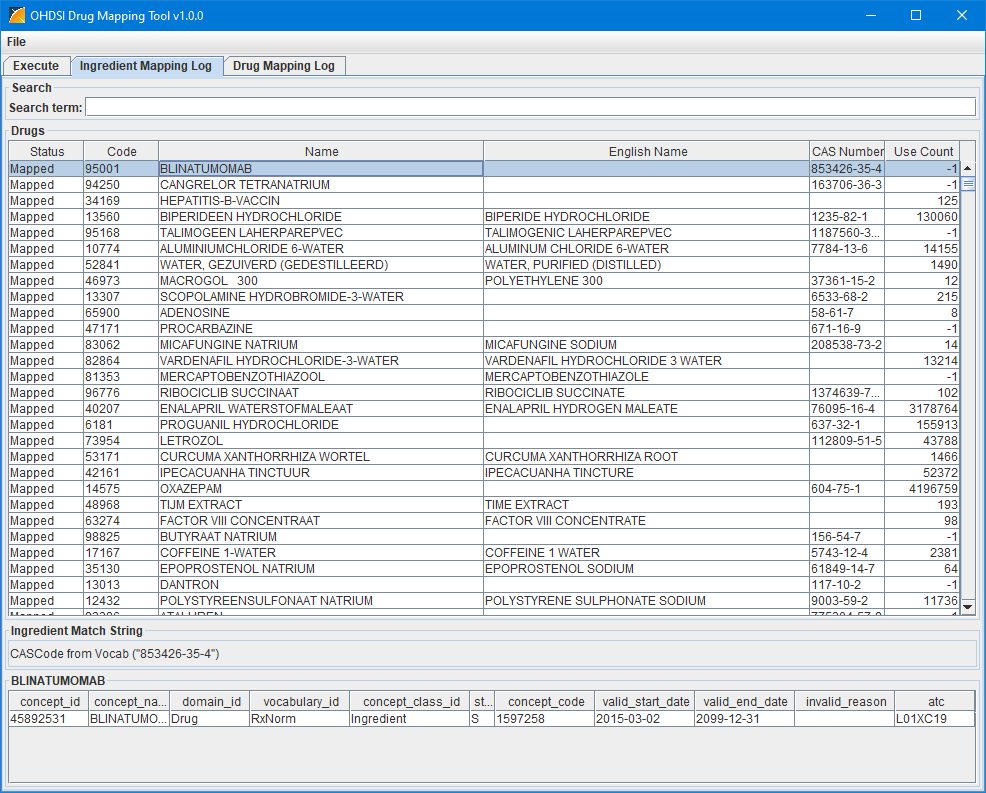
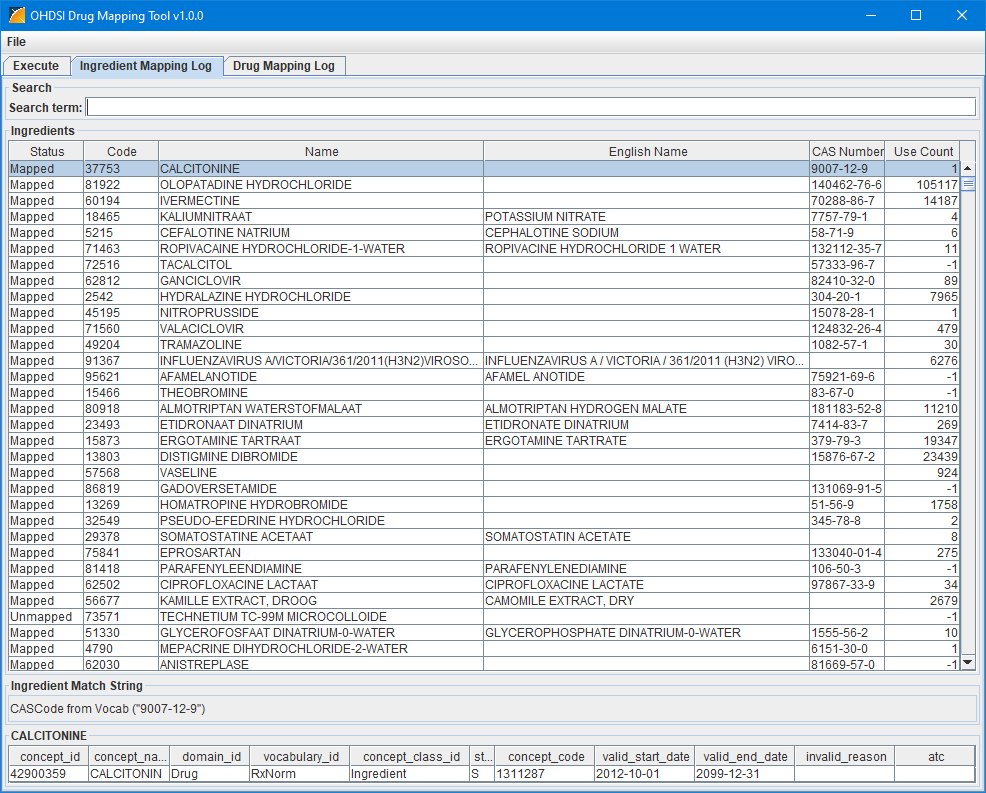
Finshed README.md and some minor changes.

Changed region(s): [[0.0, 0.1816, 1.0, 0.9987], [0.4868, 0.2421, 0.7302, 0.3632], [0.0, 0.1513, 0.0913, 0.1816]]

diff --git a/src/org/ohdsi/drugmapping/gui/IngredientsMappingLogTab.java b/src/org/ohdsi/drugmapping/gui/IngredientsMappingLogTab.java
@@ -103,9 +103,7 @@ public class IngredientsMappingLogTab extends MainFrameTab {
 		JPanel drugsResultsPanel = new JPanel(new BorderLayout());
 		
 		ingredientsPanel = new JPanel(new BorderLayout());
-		ingredientsPanel.setBorder(BorderFactory.createTitledBorder("Drugs"));
-		ingredientsPanel.setMinimumSize(new Dimension(100, 500));
-		ingredientsPanel.setPreferredSize(new Dimension(100, 500));
+		ingredientsPanel.setBorder(BorderFactory.createTitledBorder("Ingredients"));
 		
 		JPanel drugMappingLogResultsPanel = new JPanel(new BorderLayout());
 		
@@ -116,17 +114,17 @@ public class IngredientsMappingLogTab extends MainFrameTab {
 		ingredientMappingLogPanel.setPreferredSize(new Dimension(100, 50));
 		
 		ingredientMappingResultPanel = new JPanel(new BorderLayout());
-		ingredientMappingResultPanel.setMinimumSize(new Dimension(100, 60));
-		ingredientMappingResultPanel.setMaximumSize(new Dimension(100, 60));
-		ingredientMappingResultPanel.setPreferredSize(new Dimension(100, 60));
+		ingredientMappingResultPanel.setMinimumSize(new Dimension(100, 62));
+		ingredientMappingResultPanel.setMaximumSize(new Dimension(100, 62));
+		ingredientMappingResultPanel.setPreferredSize(new Dimension(100, 62));
 		ingredientMappingResultPanel.setBorder(BorderFactory.createTitledBorder("Mapped to CDM Ingredient"));
 						
 		this.add(searchPanel, BorderLayout.NORTH);
 		this.add(drugsResultsPanel, BorderLayout.CENTER);
-		drugsResultsPanel.add(ingredientsPanel, BorderLayout.NORTH);
-		drugsResultsPanel.add(drugMappingLogResultsPanel, BorderLayout.CENTER);
+		drugsResultsPanel.add(ingredientsPanel, BorderLayout.CENTER);
+		drugsResultsPanel.add(drugMappingLogResultsPanel, BorderLayout.SOUTH);
 		drugMappingLogResultsPanel.add(ingredientMappingLogPanel, BorderLayout.NORTH);
-		drugMappingLogResultsPanel.add(ingredientMappingResultPanel, BorderLayout.CENTER);
+		drugMappingLogResultsPanel.add(ingredientMappingResultPanel, BorderLayout.SOUTH);
 	}
 	
 	

diff --git a/src/org/ohdsi/drugmapping/source/Source.java b/src/org/ohdsi/drugmapping/source/Source.java
@@ -137,7 +137,7 @@ public class Source {
 	
 	private List<SourceDrug> sourceDrugs;
 	private Map<String, SourceDrug> sourceDrugMap;
-	private List<SourceDrug> missingATC;
+	private List<SourceDrug> missingATC = new ArrayList<SourceDrug>();
 	
 	
 	public boolean loadSourceDrugs(DelimitedInputFileGUI sourceDrugsFile, List<String> report) {
@@ -146,8 +146,6 @@ public class Source {
 		ingredientSourceCodeIndex = new HashMap<String, SourceIngredient>();
 		
 		casNumbersSet = 0;
-		
-		missingATC = new ArrayList<SourceDrug>();
 		
 		return load(sourceDrugsFile, DrugMapping.settings.getLongSetting(MainFrame.MINIMUM_USE_COUNT), report);
 	}
@@ -172,6 +170,8 @@ public class Source {
 		
 		sourceDrugs = new ArrayList<SourceDrug>();
 		sourceDrugMap = new HashMap<String, SourceDrug>();
+		
+		missingATC.clear();
 		
 		Integer sourceDrugCount = 0;
 		Set<String> ignoredSourceCodes = new HashSet<String>();
@@ -309,34 +309,6 @@ public class Source {
 		System.out.println(DrugMappingDateUtilities.getCurrentTime() + "     Done");
 		
 		return (!sourceDrugError);
-	}
-	
-	
-	public void saveMissingATCToFile() {
-		String fileName = "";
-
-		PrintWriter missingATCFile = null;
-		try {
-			// Create output file
-			fileName = DrugMapping.getBasePath() + "/" + DrugMapping.outputVersion + "DrugMapping Missing ATC.csv";
-			missingATCFile = new PrintWriter(new File(fileName));
-			SourceDrug.writeHeaderToFile(missingATCFile);
-		} 
-		catch (FileNotFoundException e) {
-			System.out.println("       ERROR: Cannot create output file '" + fileName + "'");
-			missingATCFile = null;
-		}
-		
-		for (SourceDrug sourceDrug : missingATC) {
-			if (missingATCFile != null) {
-				sourceDrug.writeDescriptionToFile("", missingATCFile);
-			}
-		}
-		
-		if (missingATCFile != null) {
-			missingATCFile.close();
-		}
-		
 	}
 	
 	

diff --git a/src/org/ohdsi/drugmapping/gui/ExecuteTab.java b/src/org/ohdsi/drugmapping/gui/ExecuteTab.java
@@ -263,9 +263,10 @@ public class ExecuteTab extends MainFrameTab {
 	
 	
 	public List<String> readSettingsFromFile(String settingsFileName, boolean mandatory) {
-		List<String> settings = new ArrayList<String>();
+		List<String> settings = null;
 		if (settingsFileName != null) {
 			try {
+				settings = new ArrayList<String>();
 				BufferedReader settingsFileBufferedReader = new BufferedReader(new FileReader(settingsFileName));
 				String line = settingsFileBufferedReader.readLine();
 				while (line != null) {

diff --git a/src/org/ohdsi/drugmapping/genericmapping/GenericMapping.java b/src/org/ohdsi/drugmapping/genericmapping/GenericMapping.java
@@ -1810,7 +1810,6 @@ public class GenericMapping extends Mapping {
 			}
 		});
 		
-		source.saveMissingATCToFile();
 		saveIngredientMapping(sourceIngredients);
 		saveDrugMapping();
 		isSavingDrugMapping = false;

diff --git a/README.md b/README.md
@@ -10,53 +10,47 @@ Features
 * Allows you to overrule the automatic mappings.
 * Allows you to specify mappings for drugs that are not mapped.
 
-Screenshots
-===========
+Technology
+============
+DrugMapping is a pure Java application that uses JDBC to connect to the respective databases containing the standardized vocabulary.
+
+
+Prerequisites
+=============
+Make sure you have a database containing the CDM vocabularies. The DrugMapping tool supports Oracle, PostgreSQL, and SQL Server.
+
+
+Getting Started
+===============
+The DrugMapping tool consists of two files released in a .zip file:
+
+DrugMapping-vx.x.x.dat<br>
+DrugMapping-vx.x.x.jar
+
+where x.x.x is the version number. Extract the zip file.
+
+Start the the DrugMapping tool by double clicking the .jar file.
+The interface of the DrugMapping tool consists of three tabs:
+
+Execute<br>
+Ingredient Mapping Log<br>
+Drug Mapping Log
+
+It opens with the Execute tab shown here:
 
 <img src="man/Screenshot_v1.0.0_Execute_Tab.png" alt="Execute Tab" title="Execute Tab" />
 
 _The Execute tab._
 <br><br>
 
-<img src="man/Screenshot_v1.0.0_Ingredient_Mapping_Log_Tab.png" alt="Ingredient Mapping Log Tab" title="Ingredient Mapping Log Tab" />
-
-_The Ingredient Mapping Log tab._
-<br><br>
-
-<img src="man/Screenshot_v1.0.0_Drug_Mapping_Log_Tab.png" alt="Drug Mapping Log Tab" title="Drug Mapping Log Tab" />
-
-_The Drug Mapping Log tab._
-<br><br>
+First you have to define the CDM database connection. To do this click on the &quot;Select&quot; button in the &quot;CDM Database&quot; box. This opens the Database Definition screen show here:
 
 <img src="man/Screenshot_v1.0.0_CDM_Database_Definition_Screen.png" alt="CDM Database Definition Screen" title="CDM Database Definition Screen" />
 
-_The CDM Database Definition Screen._
+_The CDM Database Definition screen._
 <br><br>
 
-<img src="man/Screenshot_v1.0.0_Input_File_Definition_Screen.png" alt="Input File Definition Screen Tab" title="Input File Definition Screen" />
-
-_The Input File Definition Screen._
-<br><br>
-
-Technology
-============
-DrugMapping is a pure Java application that uses JDBC to connect to the respective databases containing the standardized vocabulary
-
-Getting Started
-===============
-
-Make sure you have a database containing the CDM vocabularies. The DrugMapping tool supports Oracle, PostgreSQL, and SQL Server.
-
-The DrugMapping tool consists of two files released in a .zip file:
-
-DrugMapping-vx.x.x.dat
-DrugMapping-vx.x.x.jar
-
-where x.x.x is the version number. Extract the zip file.
-
-Start the the DrugMapping tool by double clicking the .jar file.
-
-First you have to define the CDM database connection. To do this click on the &quot;Select&quot; button in the &quot;CDM Database&quot; box. This opens the Database Definition screen show above. The specification of the fields for the different databases are:
+The specification of the fields for the different databases are:
 
 Oracle:
 
@@ -91,11 +85,73 @@ SQL Server:
 | Password | The password of the user. |
 | Vocabulary Schema | The name of the schema/user that will holds the CDM vocabulary tables. |
 
+You can test the database connection with the Test connection" button.
+Once defined, you can save this definition to a file using the menu option File-Save Database Settings. In another run you can load these settings again with the menu option File-Load Database Settings.<br>
+At the first use of a database the DrugMapping tool will build a cache with all the information retrieved from the database in the subfolder "CDM Cache". At the following runs with the same "Database name" it will read the information from the files in the cache folder instead of from the database. In case the contents of the vocabularies in the database has changed you can select the check box left of the label "CDM Database" to force the tool to refresh the cache.<br>
+When you load the database settings saved earlier the "CDM Database Definition" screen will open to allow you to enter the password for the database and test the connection. The password is not saved with the database settings
 
-Once defined, you can save this definition to a file using the menu option File-Save Database Settings. In another run you can load these settings again with the menu option File-Load Database Settings.
-At the first run the tool will build a cache with all the information retrieved from the database in the subfolder "CDM Cache". At the following runs with the same "Database name" it will read the information from the files in the cache folder instead of from the database. In case the contents of the vocabularies in the database has changed you can select the check box left of the label "CDM Database" to force the tool to refresh the cache.
+The next thing to do is specify the input files:
 
-Second you have to specify the input files:
+Generic Drugs File<br>
+Ingredient Name Translation File
+Unit Mapping File
+Dose Form Mapping File
+Manual CAS Mappings File
+Manual Ingredient Overrule Mappings File
+Manual Ingredient Fallback Mappings File
+Manual Drug Mappings File
+
+In the section "The input Files" below you will find a description of each of these input files. All these files are delimited files.<br>
+At the first run you only have to specify the "Generic Drugs File". With this first run it will create empty versions of the "Ingredient Name Translation File", "Unit Mapping File" and the "Dose Form Mapping File" in the output folder specified also in this tab. After the first run you have to complete these files first and use them in the following runs.
+You can specify a file by clicking on the Select button behind it. This will open the "Input File Definition Screen" shown here:
+
+<img src="man/Screenshot_v1.0.0_Input_File_Definition_Screen.png" alt="Input File Definition Screen Tab" title="Input File Definition Screen" />
+
+_The Input File Definition screen._
+<br><br>
+
+In this screen you first select the file with the Browse button. As soon as you have specified the right delimiter and text qualifier the columns of the file will be shown in the drop-down boxes at the right side of the "Column Mapping" box in this screen. At the left side of this box you see all the required columns for the input file which you can map to the columns of the actual input file by selecting the right column in the drop-down box behind it. When done click OK.<br>
+Before you start the run make sure the check boxes left of the files you want to use are checked.<br>
+Once all input files are specified you can save the settings with the "Save File Settings" option from the "File" menu for future runs where you can load them again with the "Load File Settings" option from the "File" menu. The setting of the check boxes are also saved with the file settings.
+
+Next you have to specify an output folder where all the output files should be written.
+The setting of the output folder is saved together with the other file settings using the "Save File Settings" from the "File" menu.
+
+Finally you have to specify the Vocabulary ID of your source vocabulary that can be used in the source_to_concept_map table of the OMOP CDM and a setting if you want to see warnings or not.
+These settings can also be saved using the "Save General Settings" option from the "File" menu and loaded in another run with "Load General Settings" option from the "File" menu.
+
+There is also a console box in the tab where you can follow the progress of the mapping.<br>
+Once all settings are done you can start the mapping with the Start button at the left bottom.
+
+When the mapping is done the tool automatically switches to the "Drug Mapping Log" tab while it is still saving the mapping and the log file to the output folder.<br>
+The "Drug Mapping Log" tab shows the steps for the mapping for each source drug. It is shown here:
+
+<img src="man/Screenshot_v1.0.0_Drug_Mapping_Log_Tab.png" alt="Drug Mapping Log Tab" title="Drug Mapping Log Tab" />
+
+_The Drug Mapping Log tab._
+<br><br>
+
+This tab consists of four sections.<br>
+At the top is the Search section with a field where you can enter a search term. While typing in this field it will select the lines in the Drugs section that contain the search term.<br>
+The Drugs section contains all source drugs. By clicking on one of the column headers you can sort the drugs. When you select one it will show the different steps in in the mapping for this drug are shown in the "Drug Mapping Log" section. The right most column "Mapping Result" shows the step in the mapping process chronologically show from top to bottom.<br>
+When you select a line in the "Drug Mapping Log" section the CDM concepts involved are shown in the bottom section.
+
+The "Ingredient Mapping Log" tab shows the results of mapping the ingredients of the source drug to CDM Ingredient concepts. It is show here:
+
+<img src="man/Screenshot_v1.0.0_Ingredient_Mapping_Log_Tab.png" alt="Ingredient Mapping Log Tab" title="Ingredient Mapping Log Tab" />
+
+_The Ingredient Mapping Log tab._
+<br><br>
+
+At the top is the Search section with a field where you can enter a search term. While typing in this field it will select the lines in the Ingredients section that contain the search term.<br>
+The Ingredients section contains all ingredients of the source drugs. By clicking on one of the column headers you can sort the ingredients. When you select one it will show how it is mapped to a CDM Ingredient and in the bottom section it will show the Ingredient concept it is mapped to.
+
+When you have the results of a run you can reload them in the tool with the option "load Mapping Results" from the "File" menu. With option you will get a window to select the "DrugMapping Log.txt" file of the result you want to load. After loading you can view them again in the "Ingredient Mapping Log" tab and the "Drug Mapping Log" tab.
+
+
+The Input Files
+===============
+Below you will find a description of each of the input files.
 
 _Generic Drugs File_
 
@@ -198,20 +254,11 @@ This file is optional.
 | SourceId | This is the code of the source drug. |
 | concept\_id | This is the CDM concept id of the clinical drug, clinical drug comp, or clinical drug form the source drug should be mapped to. |
 
-Finally you can specify an output folder where all the output files should be written.
-As with the database settings you can save the file settings using the File-Save File Settings for later use. In another run you can load these settings again with the menu option File-Load File Settings.
-
-The next section in the Execute tab is the "General Settings" section. It contains a field to enter the Vocabulary ID of the source vocabulary and a drop down box where you can specify if you to suppress warnings.
-These settings can also be saved using the File-Save General Settings and loaded in another run with File-Load General Settings.
-
-For the first run only the Generic Drugs File is required. Leave all check boxes of the manual mapping files unchecked. In this first run it will collect ingredient names, units and formulations from the source drug file and then it stops after creating a translation file for the ingredient names and empty mapping files for the units and formulations.
-
-After you have specified the initial ingredient name translations and unit and formulation mappings you are ready to perform the first real mapping. For later runs you can adjust the mapping with the manual mapping files.
 
 
-**The Result Files**
-
-The tool creates several output files
+The Result Files
+================
+The tool creates several output files. They are described here.
 
 _DrugMapping Log.txt_
 
@@ -320,31 +367,21 @@ This file contains the source to concept map. It contains the following columns:
 | valid_end_date | The valid\_end\_date of RxNorm (Extension) drug or ingredient. |
 | invalid_reason | The invalid\_reason of RxNorm (Extension) drug or ingredient. |
 
-_DrugMapping Missing ATC.csv_
 
-This file contains the source that don't have an ATC code. It contains the following columns:
-
-| **Column** | **Content** |
-| --- | --- |
-| SourceCode | The code of the source drug. |
-| SourceName | The original name of the source drug. |
-| SourceATCCode |  |
-| SourceFormulation | The formulation of the source drug. |
-| SourceCount | The number of records in the database containing the source drug. |
-
-
-**Command Line Options**
-
+Command Line Options
+====================
 The DrugMapping tool can also be started from the command line with the command:
 
-java -jar &lt;DrugMapping-vx.x.x.jar file&gt; &#91;databasesettings=&lt;database settings file&gt; password=&lt;database password&gt;&#93; &#91;filesettings=&lt;file settings file&gt;&#93; &#91;generalsettings=&lt;general settings file&gt;&#93; &#91;path=&lt;path where result files are written&gt;&#93; &#91;autostart=yes&#93;
+java -jar &lt;DrugMapping-vx.x.x.jar file&gt; &#91;databasesettings=&lt;path of database settings file&gt; password=&lt;database password&gt;&#93; &#91;filesettings=&lt;path of file settings file&gt;&#93; &#91;generalsettings=&lt;path of general settings file&gt;&#93; &#91;autostart=yes&#93;
 
 [...] means the option is optional. The square brackets should not be written in the command.
 
+
 Getting Involved
-=============
+================
 * We use the [GitHub issue tracker](../../issues) for all bugs/issues/enhancements/questions
 * Historically, all files have CRLF line endings. Please configure your IDE and local git to keep line endings as is. This avoids merge conflicts.
+
 
 License
 =======
